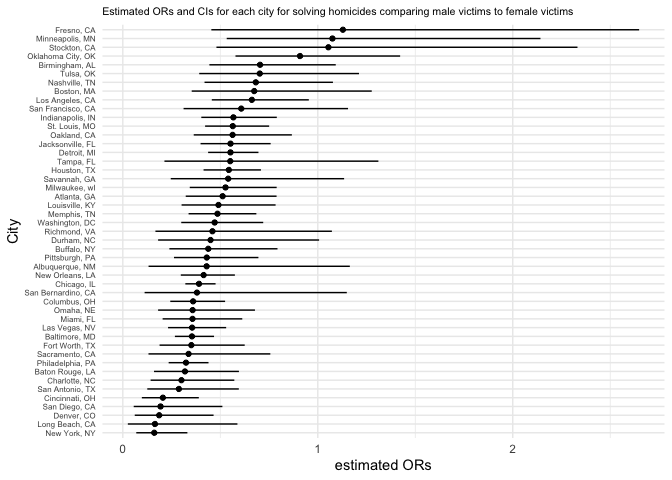
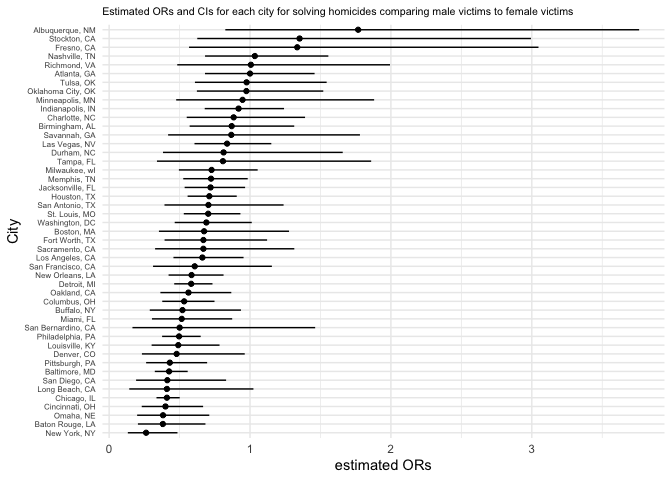
edit

diff --git a/p8105_hw6.md b/p8105_hw6.md
@@ -12,8 +12,8 @@ homicide_data = read.csv("data/homicide-data.csv")
 homicide_data_clean = homicide_data |>
   mutate(city_state = paste(city, state, sep = ", "),
          resolved = case_when(
-      disposition == "Open/No arrest"  ~ 0,
-      disposition != "Open/No arrest" ~ 1),
+      disposition == "Closed by arrest"  ~ 1,
+      disposition != "Closed by arrest" ~ 0),
       victim_age = as.numeric(victim_age)) |>
   filter(!city_state %in% c("Dallas, TX", "Phoenix, AZ", "Kansas City, MO", "Tulsa, AL"))|>
   filter(victim_race %in% c("White","Black"))
@@ -40,7 +40,7 @@ baltimore_fit |>
 
 | term           |    OR | conf.low | conf.high |
 |:---------------|------:|---------:|----------:|
-| victim_sexMale | 0.355 |    0.267 |     0.468 |
+| victim_sexMale | 0.426 |    0.324 |     0.558 |
 
 ``` r
 city_data =
@@ -73,16 +73,16 @@ city_data
     ## # A tibble: 47 × 4
     ##    city_state      estimate conf.low conf.high
     ##    <chr>              <dbl>    <dbl>     <dbl>
-    ##  1 Albuquerque, NM    0.430   0.132      1.16 
-    ##  2 Atlanta, GA        0.512   0.323      0.789
-    ##  3 Baltimore, MD      0.355   0.267      0.468
-    ##  4 Baton Rouge, LA    0.319   0.160      0.596
-    ##  5 Birmingham, AL     0.704   0.444      1.09 
-    ##  6 Boston, MA         0.674   0.353      1.28 
-    ##  7 Buffalo, NY        0.438   0.239      0.793
-    ##  8 Charlotte, NC      0.301   0.143      0.572
-    ##  9 Chicago, IL        0.391   0.321      0.476
-    ## 10 Cincinnati, OH     0.206   0.0977     0.390
+    ##  1 Albuquerque, NM    1.77     0.825     3.76 
+    ##  2 Atlanta, GA        1.00     0.680     1.46 
+    ##  3 Baltimore, MD      0.426    0.324     0.558
+    ##  4 Baton Rouge, LA    0.381    0.204     0.684
+    ##  5 Birmingham, AL     0.870    0.571     1.31 
+    ##  6 Boston, MA         0.674    0.353     1.28 
+    ##  7 Buffalo, NY        0.521    0.288     0.936
+    ##  8 Charlotte, NC      0.884    0.551     1.39 
+    ##  9 Chicago, IL        0.410    0.336     0.501
+    ## 10 Cincinnati, OH     0.400    0.231     0.667
     ## # ℹ 37 more rows
 
 ``` r
@@ -288,16 +288,6 @@ summary(model)
 
 ``` r
 library(modelr)
-```
-
-    ## 
-    ## Attaching package: 'modelr'
-
-    ## The following object is masked from 'package:broom':
-    ## 
-    ##     bootstrap
-
-``` r
 library(ggplot2)
 
 birthweight |>
@@ -319,20 +309,6 @@ birthweight |>
 ``` r
 library(modelr)
 library(mgcv)
-```
-
-    ## Loading required package: nlme
-
-    ## 
-    ## Attaching package: 'nlme'
-
-    ## The following object is masked from 'package:dplyr':
-    ## 
-    ##     collapse
-
-    ## This is mgcv 1.9-3. For overview type 'help("mgcv-package")'.
-
-``` r
 library(purrr)
 model_length_age = lm(formula = bwt ~ blength + gaweeks, data = birthweight)
 
